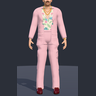
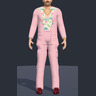
Shirt collars: a stand and fall laid over any jacket, chains inside
A top's collar is now built after the jacket so its revers spread over the jacket's lapels;
necklaces rest on the top inside the collar. The open collar (camp shirt and jumpsuit) gets a
stand that folds over into a fall round the back of the neck, dipping into the revers, which
now run up to the neck and cover the neckline's cut.

diff --git a/src/core/garments/shirts.ts b/src/core/garments/shirts.ts
@@ -9,9 +9,9 @@ import type { Vec3 } from '../math';
 import type { Material } from '../mesh';
 import { cm, REGION, type Body, type VInfo } from './body';
 import { part } from './drape';
-import { clamp, cloth, cylinderUVs, isTrunk, isUpper, mat, points, shell, torsoY, type GarmentDef, type GarmentStyle, type GCtx, type GPart } from './kit';
+import { clamp, cloth, cylinderUVs, hplane, isTrunk, isUpper, mat, points, shell, torsoY, type GarmentDef, type GarmentStyle, type GCtx, type GPart } from './kit';
 import { Caster, gridMesh, liftGrid, OUTWARD } from './project';
-import { cord, ellipsoid, frameOf, merge, orientOutward, solidBand, v3 } from './ring';
+import { cord, ellipsoid, frameOf, hullRing, loftRings, merge, orientOutward, v3 } from './ring';
 
 export interface CollarOpts {
   /** Trunk height (tt) of the V's point. */
@@ -40,38 +40,89 @@ export function vNeck(b: Body, o: Pick<CollarOpts, 'ttV' | 'vw'>) {
 }
 
 /**
- * The open collar of a shirt whose shell is `top`: a stand round the back of the neck, two collar
- * points lying on the chest either side of the V (from the collarbones down to the V's point),
- * and a placket with buttons below it.
+ * The open collar, laid over whatever is outermost (the shirt, or a jacket's lapels): round the
+ * back of the neck a stand rises and folds over into a fall that lies down over the shoulders (or
+ * the jacket's collar), dipping toward the front where it runs into two collar points (revers)
+ * lying on the chest either side of the V, from the collarbones down to the V's point.
  */
-export function openCollar(g: GCtx, top: PolyMesh, m: Material, o: CollarOpts): GPart[] {
+export function openCollar(g: GCtx, m: Material, o: CollarOpts): GPart[] {
   const b = g.body, sx = b.L.shoulderX;
-  const parts: GPart[] = [];
-  // Stand: wide enough to cover the neckline's edge round the back and sides.
+  const surfaces = merge(g.wornMeshes ?? []);
+  if (!surfaces) return [];
+  const two = { ...m, doubleSided: true };
   const neckPts = points(b, (v) => v.region === REGION.neck || (isTrunk(v) && v.tt > 0.88));
-  const stand = solidBand(neckPts, { origin: [0, b.L.neckY - cm(0.9), b.L.torsoZ], normal: v3.norm([0, 1, 0.25]) }, cm(4), cm(0.4), o.standOffset, {
-    samples: 56, slab: cm(1.4), arc: [Math.PI - 2.4, Math.PI + 2.4],
-  });
-  parts.push(...part(stand, m));
-  // Collar points, placket and buttons lie on the shirt itself.
-  const front = new Caster(top, null, () => true, 'front');
-  // The points lie on the chest from the collarbones (tt 0.94) down the V to its point.
-  const ttTop = 0.94, yTopV = torsoY(b, ttTop), yBotV = torsoY(b, o.ttV);
-  const vTop = o.vw * sx * ((ttTop - o.ttV) / (1 - o.ttV));
+  // What the fall lies on: the neck and shoulders and anything worn over them.
+  const outer = [...neckPts, ...(g.worn ?? []), ...(g.jacket ?? [])].filter((p) => p[1] > b.L.neckY - cm(6));
+  // Stand and fall: rings round the back of the neck (angle A either side of the back), each
+  // dipping toward its ends where the collar opens into the revers.
+  const A = 2.75, S = 56, nY = b.L.neckY;
+  const arc: [number, number] = [Math.PI - A, Math.PI + A];
+  const dip = (j: number) => -cm(4) * Math.abs((2 * j) / S - 1) ** 2.6;
+  // Each point of a ring comes from the hull at its own (dipped) height, so the collar widens
+  // with the body as it comes down toward the front.
+  const ring = (src: Vec3[], y: number, off: number): Vec3[] | null => {
+    const cache = new Map<number, Vec3[] | null>();
+    const out: Vec3[] = [];
+    for (let j = 0; j <= S; j++) {
+      const k = Math.round((y + dip(j)) / cm(0.5));
+      if (!cache.has(k)) cache.set(k, hullRing(src, hplane(b, k * cm(0.5)), { slab: cm(1.2), samples: S, offset: off, arc }));
+      const r = cache.get(k);
+      if (!r) return null;
+      out.push(r[j]);
+    }
+    // Smooth out the steps between heights.
+    for (let it = 0; it < 4; it++) {
+      const prev = out.map((q) => [...q] as Vec3);
+      for (let j = 1; j < S; j++) out[j] = v3.scale(v3.add(v3.add(prev[j - 1], v3.scale(prev[j], 2)), prev[j + 1]), 0.25);
+    }
+    return out;
+  };
+  const so = o.standOffset;
+  const rings = [
+    ring(neckPts, nY - cm(1.2), so),
+    ring(neckPts, nY + cm(1.6), so + cm(0.1)),
+    // The fold: rounded over the top of the stand.
+    ring(neckPts, nY + cm(1.95), so + cm(0.45)),
+    ring(neckPts, nY + cm(1.4), so + cm(0.85)),
+    // The fall, lying out over what is below it.
+    ring(outer, nY - cm(1.6), cm(0.45)),
+  ];
+  const parts: GPart[] = [];
+  if (rings.every((r) => r)) {
+    const rs = rings as Vec3[][];
+    // The fall never sits inside the stand.
+    const c: Vec3 = [0, 0, b.L.torsoZ];
+    for (let j = 0; j <= S; j++) {
+      const inner = rs[3][j], p = rs[4][j];
+      const ri = Math.hypot(inner[0] - c[0], inner[2] - c[2]), rp = Math.hypot(p[0] - c[0], p[2] - c[2]);
+      if (rp < ri + cm(0.3)) {
+        const k = (ri + cm(0.3)) / (rp || 1);
+        rs[4][j] = [c[0] + (p[0] - c[0]) * k, p[1], c[2] + (p[2] - c[2]) * k];
+      }
+    }
+    parts.push(...part(orientOutward(loftRings(rs, { closedAround: false, tileU: 0.2, tileV: 0.1 }), [0, nY, b.L.torsoZ - cm(20)]), two));
+    parts.push(...part(cord(rs[4], cm(0.2), false, 6), m));
+  }
+  // Revers: cast onto the outermost surface (over a jacket's lapels when one is worn).
+  const front = new Caster(surfaces, null, () => true, 'front');
+  // The inner edge runs down the V from the base of the neck (covering the neckline's cut up to
+  // where the stand ends); the outer point lies on the collarbone (tt 0.94).
+  const yTopV = torsoY(b, 1), yBotV = torsoY(b, o.ttV), drop = yTopV - torsoY(b, 0.94) + cm(3);
   const flaps: PolyMesh[] = [];
   for (const s of [1, -1]) {
     // Inner edge down the V; the outer edge flares out to a point `lapelW` wide at the top,
     // angled down toward the shoulder.
-    const R = 12, C = 6, grid: Vec3[][] = [];
+    const R = 14, C = 8, grid: Vec3[][] = [];
     for (let i = 0; i <= R; i++) {
       const t = i / R;
       const row: Vec3[] = [];
       for (let j = 0; j <= C; j++) {
         const u = j / C;
         const yIn = yTopV + (yBotV - yTopV) * t;
-        const xIn = s * (vTop * (1 - t) + cm(0.6));
+        const xIn = s * (o.vw * sx * (1 - t) + cm(0.6));
         const x = xIn + s * u * o.lapelW * (1 - t) ** 0.6;
-        const y = yIn - u * cm(2.2) * (1 - t);
+        // The top edge slopes down to the point.
+        const y = yIn - u * drop * (1 - t);
         // A ray that misses (past the shoulder's edge) reuses its neighbour.
         const hit = front.hit(x, y);
         const prev = row[row.length - 1] ?? grid[grid.length - 1]?.[j];
@@ -81,7 +132,7 @@ export function openCollar(g: GCtx, top: PolyMesh, m: Material, o: CollarOpts): 
       }
       grid.push(row);
     }
-    const lifted = liftGrid(grid, cm(0.45), OUTWARD.front, 1);
+    const lifted = liftGrid(grid, cm(0.4), OUTWARD.front, 2);
     flaps.push(orientOutward(gridMesh(lifted, 0.3), v3.madd(grid[R >> 1][C >> 1], OUTWARD.front, -1)));
     // A rolled edge along the outer and top edges gives the point thickness and a shadow line.
     const edge = [...lifted.map((row) => row[C]).reverse(), ...lifted[0].slice(0, C).reverse()];
@@ -89,7 +140,16 @@ export function openCollar(g: GCtx, top: PolyMesh, m: Material, o: CollarOpts): 
     // The fold down the V: a soft rounded edge that also covers the neckline's cut.
     flaps.push(cord(lifted.map((row) => v3.madd(row[0], OUTWARD.front, -cm(0.1))), cm(0.3), false, 6));
   }
-  parts.push(...part(merge(flaps), { ...m, doubleSided: true }));
+  parts.push(...part(merge(flaps), two));
+  return parts;
+}
+
+/** The button placket below the V of a shirt whose shell is `top`, with its buttons. */
+export function placket(g: GCtx, top: PolyMesh, m: Material, o: CollarOpts): GPart[] {
+  const b = g.body;
+  const front = new Caster(top, null, () => true, 'front');
+  const yBotV = torsoY(b, o.ttV);
+  const parts: GPart[] = [];
   const btns: PolyMesh[] = [];
   for (let k = 0; k < o.buttons; k++) {
     const hit = front.hit(0, yBotV - cm(3) - k * o.spacing);
@@ -105,13 +165,17 @@ export function openCollar(g: GCtx, top: PolyMesh, m: Material, o: CollarOpts): 
   return parts;
 }
 
+// Rayon: a soft sheen.
+const campCloth = (g: GCtx, st: GarmentStyle) => cloth(g, 'Camp shirt', st, { roughness: 0.62 });
+/** Open to the sternum; wide spread revers; the stand loose enough for chains to lie inside it. */
+const CAMP: CollarOpts = { ttV: 0.6, vw: 0.42, lapelW: cm(7.8), buttons: 3, spacing: cm(10), placketTo: 0.02, buttonColor: '#efe8da', standOffset: cm(1.8) };
+
 /** Loose short-sleeved resort shirt, open to the sternum and tucked in. */
 function campShirt(g: GCtx, st: GarmentStyle): GPart[] {
   const b = g.body;
-  // Rayon: a soft sheen.
-  const m = cloth(g, 'Camp shirt', st, { roughness: 0.62 });
+  const m = campCloth(g, st);
   const ease = cm(1.2), sleeveEnd = 0.5;
-  const collar: CollarOpts = { ttV: 0.6, vw: 0.42, lapelW: cm(8), buttons: 3, spacing: cm(10), placketTo: 0.02, buttonColor: '#efe8da', standOffset: ease * 0.8 };
+  const collar = CAMP;
   const neck = vNeck(b, collar);
   const top = shell(g, {
     // Tucked in: down over the hips under the trousers' waist.
@@ -123,9 +187,9 @@ function campShirt(g: GCtx, st: GarmentStyle): GPart[] {
   });
   if (!top) return [];
   top.mesh = cylinderUVs(top.mesh, 0, b.L.torsoZ, 0.32);
-  return [{ mesh: top.mesh, material: m, hides: top.covered, smooth: true }, ...openCollar(g, top.mesh, m, collar)];
+  return [{ mesh: top.mesh, material: m, hides: top.covered, smooth: true }, ...placket(g, top.mesh, m, collar)];
 }
 
 export const SHIRTS: GarmentDef[] = [
-  { id: 'camp_shirt', label: 'Camp-collar shirt (open)', slot: 'top', patterns: ['tropical', 'solid', 'linen'], color: '#efe6d4', color2: '#e58aa6', build: campShirt },
+  { id: 'camp_shirt', label: 'Camp-collar shirt (open)', slot: 'top', patterns: ['tropical', 'solid', 'linen'], color: '#efe6d4', color2: '#e58aa6', build: campShirt, collar: (g, st) => openCollar(g, campCloth(g, st), CAMP) },
 ];

diff --git a/src/core/garments/prison.ts b/src/core/garments/prison.ts
@@ -12,7 +12,7 @@ import { crotchY, hideMask, part, seatOverLegs, soleY, wideLeg } from './drape';
 import { clamp, cloth, cylinderUVs, isTrunk, isUpper, limbBand, mat, shell, torsoY, type GarmentDef, type GarmentStyle, type GCtx, type GPart } from './kit';
 import { Caster, gridMesh, liftGrid, OUTWARD } from './project';
 import { loftRings, merge, orientOutward, v3 } from './ring';
-import { openCollar, vNeck, type CollarOpts } from './shirts';
+import { openCollar, placket, vNeck, type CollarOpts } from './shirts';
 import { stencilText } from './textures';
 
 /** A print laid on the front or back of the trunk: a w x h rectangle centred at (x, y), lifted `lift` off `surface`. */
@@ -39,12 +39,15 @@ function print(cast: Caster, x: number, y: number, w: number, h: number, lift: n
   return orientOutward({ ...m, uvs, faceUVs: m.faceVerts }, v3.madd(c, out, -1));
 }
 
+const jumpsuitCloth = (g: GCtx, st: GarmentStyle) => cloth(g, 'Jumpsuit', st, { roughness: 0.92 });
+const JUMPSUIT: CollarOpts = { ttV: 0.8, vw: 0.42, lapelW: cm(7.5), buttons: 4, spacing: cm(9), placketTo: 0.12, buttonColor: '#d8d2c4', standOffset: cm(1.2) };
+
 function jumpsuitTop(g: GCtx, st: GarmentStyle): GPart[] {
   const b = g.body;
-  const m = cloth(g, 'Jumpsuit', st, { roughness: 0.92 });
+  const m = jumpsuitCloth(g, st);
   const sx = b.L.shoulderX;
   const ease = cm(1.5), sleeveEnd = 0.6;
-  const collar: CollarOpts = { ttV: 0.8, vw: 0.42, lapelW: cm(7.5), buttons: 4, spacing: cm(9), placketTo: 0.12, buttonColor: '#d8d2c4', standOffset: ease * 0.8 };
+  const collar = JUMPSUIT;
   const neck = vNeck(b, collar);
   const top = shell(g, {
     // Down to the waist seam, easing out at the bottom to lie over the trousers' seat.
@@ -57,7 +60,7 @@ function jumpsuitTop(g: GCtx, st: GarmentStyle): GPart[] {
   const parts: GPart[] = [{ mesh: top.mesh, material: m, hides: top.covered, smooth: true }];
   // Rolled sleeves: a thick roll of cloth at each sleeve's end.
   const rolls = merge([1, -1].map((s) => limbBand(b, REGION.upperarm, s, sleeveEnd - 0.04, cm(3.2), cm(0.7), ease + cm(1.6))));
-  parts.push(...part(rolls, m), ...openCollar(g, top.mesh, m, collar));
+  parts.push(...part(rolls, m), ...placket(g, top.mesh, m, collar));
   // "DOC": small on the left chest, large across the upper back.
   const front = new Caster(top.mesh, null, () => true, 'front');
   const back = new Caster(top.mesh, null, () => true, 'back');
@@ -126,6 +129,6 @@ function jumpsuitTrousers(g: GCtx, st: GarmentStyle): GPart[] {
 }
 
 export const PRISON: GarmentDef[] = [
-  { id: 'prison_top', label: 'Jumpsuit top (rolled sleeves)', slot: 'top', patterns: ['workwear', 'solid'], color: '#e2621f', color2: '#4a3a2a', build: jumpsuitTop },
+  { id: 'prison_top', label: 'Jumpsuit top (rolled sleeves)', slot: 'top', patterns: ['workwear', 'solid'], color: '#e2621f', color2: '#4a3a2a', build: jumpsuitTop, collar: (g, st) => openCollar(g, jumpsuitCloth(g, st), JUMPSUIT) },
   { id: 'prison_trousers', label: 'Jumpsuit trousers (rolled up)', slot: 'bottom', patterns: ['workwear', 'solid'], color: '#e2621f', color2: '#4a3a2a', build: jumpsuitTrousers },
 ];

diff --git a/src/core/garments/index.ts b/src/core/garments/index.ts
@@ -90,8 +90,8 @@ export function buildGarments(lib: AssetLibrary, coords: Float32Array, normals: 
     texture: (key, make) => genTexture(lib, key, make),
   };
   const parts: GPart[] = [];
-  for (const id of [d.bottom, d.top, d.jacket, ...d.accessories]) {
-    if (!id) continue;
+  const dress = (id: string | undefined) => {
+    if (!id) return;
     const built = garmentById.get(id)!.build(g, styleOf(id, d.styles));
     parts.push(...built);
     // The top, and the jacket over it: what later layers rest on.
@@ -100,8 +100,14 @@ export function buildGarments(lib: AssetLibrary, coords: Float32Array, normals: 
       for (const p of built) for (let i = 0; i < p.mesh.positions.length; i += 3) pts.push([p.mesh.positions[i], p.mesh.positions[i + 1], p.mesh.positions[i + 2]]);
       if (id === d.top) g.worn = pts;
       else g.jacket = pts;
+      g.wornMeshes = [...(g.wornMeshes ?? []), ...built.map((p) => p.mesh)];
     }
-  }
+  };
+  for (const id of [d.bottom, d.top, d.jacket]) dress(id);
+  // The top's collar, over any jacket's lapels; necklaces then go inside it.
+  const topDef = d.top ? garmentById.get(d.top) : undefined;
+  if (topDef?.collar) parts.push(...topDef.collar(g, styleOf(topDef.id, d.styles)));
+  for (const id of d.accessories) dress(id);
   if (d.footwear === 'sandals') parts.push(...sandals(g));
   if (d.footwear === 'boots') parts.push(...bootShafts(g));
   if (d.footwear === 'flipflops') parts.push(...flipFlops(g));

diff --git a/src/core/garments/kit.ts b/src/core/garments/kit.ts
@@ -33,6 +33,11 @@ export interface GarmentDef {
   color2: string;
   /** Hides the skin it covers (opaque fitted garments). */
   build(g: GCtx, st: GarmentStyle): GPart[];
+  /**
+   * A top's collar, built once any jacket is on so it can lie over the jacket's lapels. Necklaces
+   * go inside it (they rest on the top, not the collar).
+   */
+  collar?(g: GCtx, st: GarmentStyle): GPart[];
 }
 
 export interface GPart {
@@ -70,6 +75,8 @@ export interface GCtx {
   worn?: Vec3[];
   /** Vertices of the jacket over the top, for things worn over everything (a backpack). */
   jacket?: Vec3[];
+  /** Surfaces of the top and jacket dressed so far (a collar is laid over them). */
+  wornMeshes?: PolyMesh[];
 }
 
 // --- Helpers ---------------------------------------------------------------------
